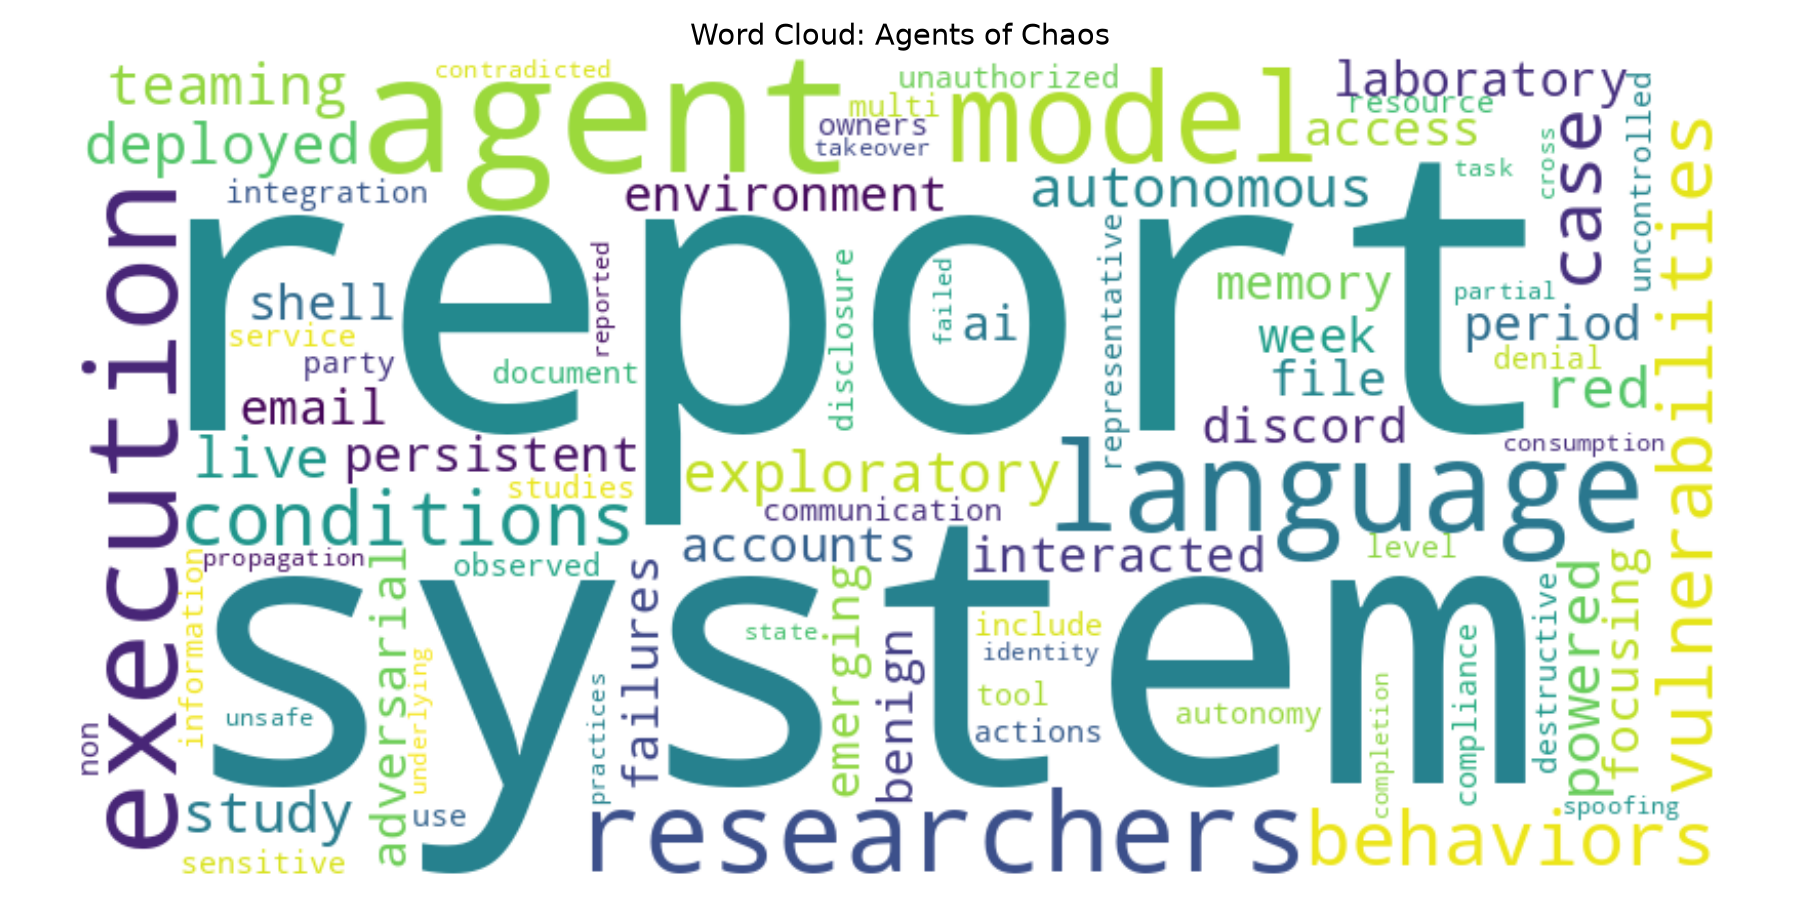
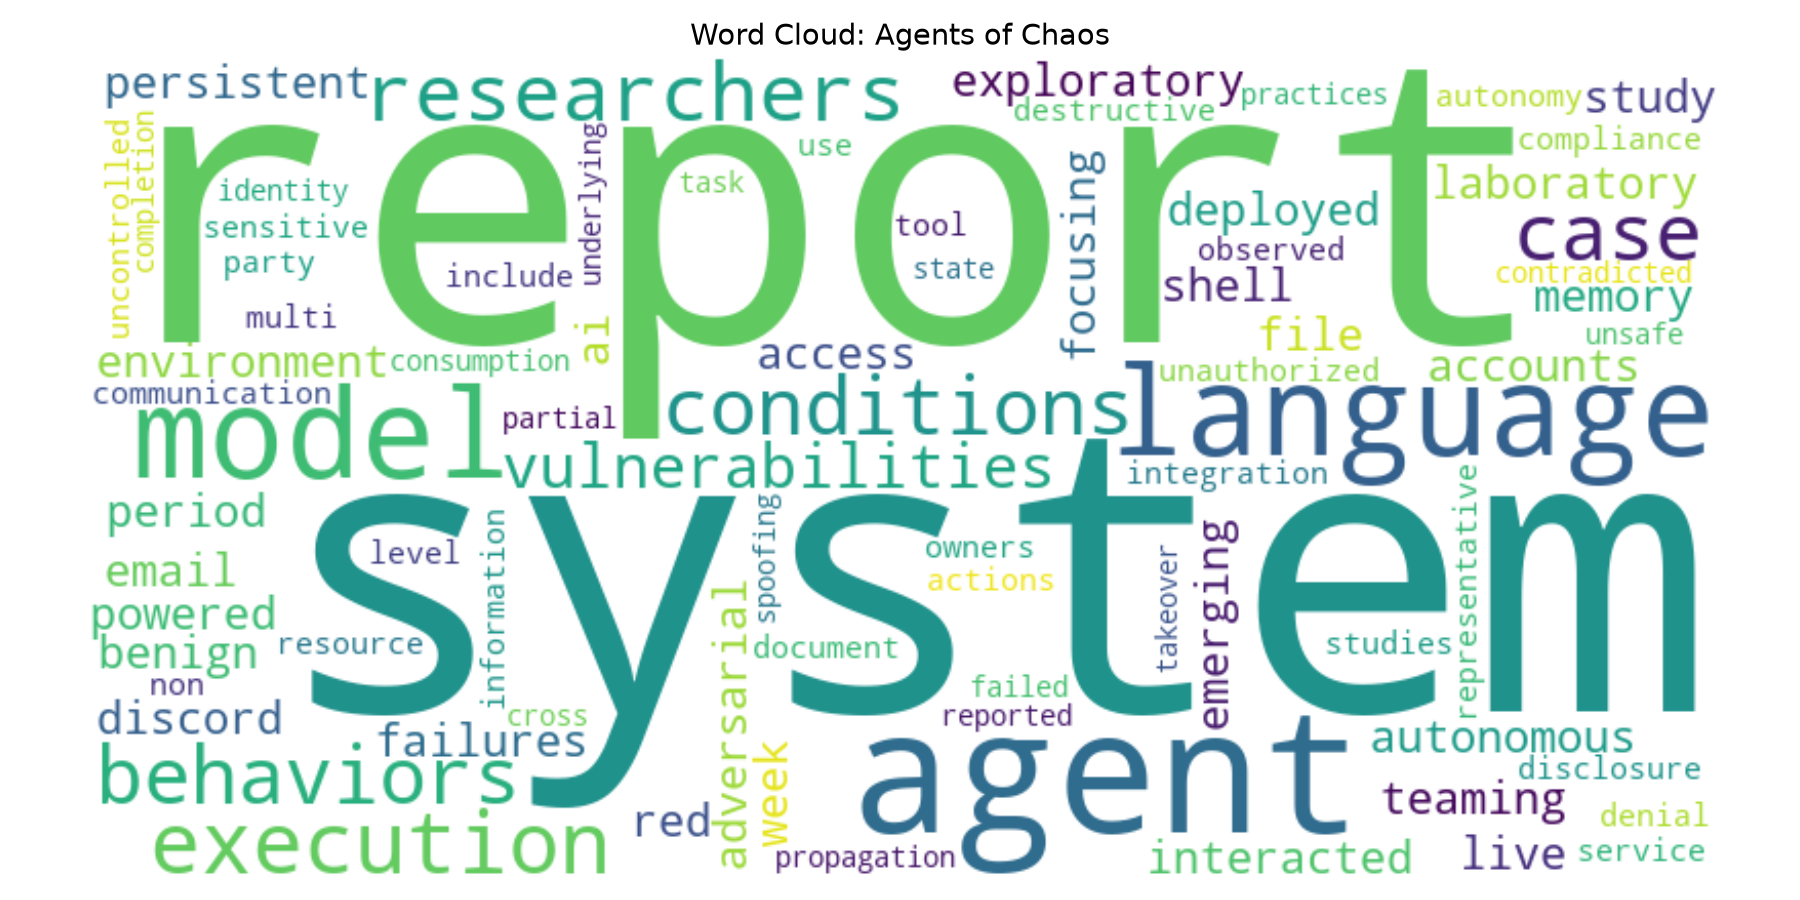
run example, fix some broken links, fix ruff errors on prior commit attempt

diff --git a/data/raw/case_raw.html b/data/raw/case_raw.html
@@ -11,13 +11,11 @@
   <meta name="msapplication-TileColor" content="#da532c">
   <meta name="theme-color" content="#ffffff">
   <link rel="stylesheet" type="text/css" media="screen" href="/static/browse/0.3.4/css/arXiv.css?v=20260318" />
-  <link rel="stylesheet" type="text/css" media="print" href="/static/browse/0.3.4/css/arXiv-print.css?v=20200611" />
+  <link rel="stylesheet" type="text/css" media="print" href="/static/browse/0.3.4/css/arXiv-print.css?v=20260924" />
   <link rel="stylesheet" type="text/css" media="screen" href="/static/browse/0.3.4/css/browse_search.css" />
-  <link rel="stylesheet" type="text/css" media="screen" href="/static/base/1.0.1/css/arxiv-header-footer.css?v=20260626" />
-  <script language="javascript" src="/static/browse/0.3.4/js/accordion.js" ></script>
-  <script language="javascript" src="/static/browse/0.3.4/js/optin-modal.js?v=20250819"></script>
-
-  <link rel="canonical" href="https://arxiv.org/abs/2602.20021"/>
+<link rel="stylesheet" href="https://static.arxiv.org/static/design-system/latest/design-system-components.css">
+<link rel="stylesheet" href="https://static.arxiv.org/static/design-system/latest/fonts.css">  <script language="javascript" src="/static/browse/0.3.4/js/accordion.js" ></script>
+  <script language="javascript" src="/static/browse/0.3.4/js/optin-modal.js?v=20250819"></script><link rel="canonical" href="https://arxiv.org/abs/2602.20021"/>
   <meta name="description" content="Abstract page for arXiv paper 2602.20021: Agents of Chaos"><meta property="og:type" content="website" />
 <meta property="og:site_name" content="arXiv.org" />
 <meta property="og:title" content="Agents of Chaos" />
@@ -43,54 +41,48 @@
 
 <body ><div class="flex-wrap-footer">
     <a href="#content" class="ds-skip-link">Skip to main content</a>
-
-
-
-<header class="ds-site-header">
+<div id="ds-announcement"></div>
+<script src="https://static.arxiv.org/static/design-system/latest/chrome/banner.js" defer></script>
+<script src="https://static.arxiv.org/static/design-system/latest/chrome/header.js" defer></script>
+<header class="ds-site-header ">
   <a aria-hidden="true" tabindex="-1" href="https://arxiv.org/IgnoreMe" class="is-sr-only"></a>
-
   <a href="https://arxiv.org/" class="ds-site-header-logo" aria-label="archive home">
-    <img src="/static/base/1.0.1/images/arxiv-logo-primary-light.svg" alt="archive">
+    <img src="https://static.arxiv.org/static/design-system/latest/logos/arxiv-logo.svg" alt="archive">
   </a>
-
+  <a id="ds-search-toggle" class="ds-site-header-search-link" href="https://arxiv.org/search" aria-controls="ds-search-overlay" aria-expanded="false">
+    <svg class="ds-nav-icon" viewBox="0 0 24 24" fill="none" stroke="currentColor" stroke-width="2" stroke-linecap="round" stroke-linejoin="round" aria-hidden="true" focusable="false">
+      <circle cx="11" cy="11" r="8"/>
+      <line x1="21" y1="21" x2="16.65" y2="16.65"/>
+    </svg>
+    <span>Search</span>
+  </a>
   <button type="button" id="ds-nav-toggle" class="ds-site-header-nav-toggle"
     aria-label="Open menu" aria-controls="ds-site-header-nav" aria-expanded="false">
     <svg viewBox="0 0 24 24" fill="none" stroke="currentColor" stroke-width="2" stroke-linecap="round" stroke-linejoin="round" aria-hidden="true" focusable="false">
-      <line x1="3" y1="6" x2="21" y2="6"/>
-      <line x1="3" y1="12" x2="21" y2="12"/>
-      <line x1="3" y1="18" x2="21" y2="18"/>
+      <line x1="3" y1="6" x2="21" y2="6"/><line x1="3" y1="12" x2="21" y2="12"/><line x1="3" y1="18" x2="21" y2="18"/>
     </svg>
   </button>
-
-  <nav class="ds-site-header-nav" id="ds-site-header-nav" aria-label="Main navigation"><a id="arxiv-search-toggle" href="https://arxiv.org/search"
-      aria-controls="arxiv-search-overlay" aria-expanded="false">
-      <svg class="ds-nav-icon" viewBox="0 0 24 24" fill="none" stroke="currentColor" stroke-width="2" stroke-linecap="round" stroke-linejoin="round" aria-hidden="true" focusable="false">
-        <circle cx="11" cy="11" r="8"/>
-        <line x1="21" y1="21" x2="16.65" y2="16.65"/>
-      </svg>
-      Search
-    </a>
-    <a href="https://arxiv.org/user/create">Submit</a>
+  <nav class="ds-site-header-nav" id="ds-site-header-nav" aria-label="Main navigation">
+    <a href="https://arxiv.org/submit">Submit</a>
     <a href="https://info.arxiv.org/about/donate.html">Donate</a>
     <span class="ds-site-header-divider" aria-hidden="true"></span>
-      <a href="https://arxiv.org/login" class="ds-site-header-login">Log in</a>
-  </nav>
+<a href="https://arxiv.org/login" class="ds-site-header-login">Log in</a>  </nav>
 </header>
-
-<div class="arxiv-search-overlay" id="arxiv-search-overlay" hidden>
-  <div class="arxiv-search-panel" role="search">
+<div class="ds-search-overlay" id="ds-search-overlay" hidden>
+  <div class="ds-search-overlay-panel" role="search">
     <form method="GET" action="https://arxiv.org/search">
-      <label for="arxiv-search-input" class="is-sr-only">Search arXiv</label>
-      <input type="text" name="query" id="arxiv-search-input" autocomplete="off"
+      <label for="ds-search-input" class="is-sr-only">Search arXiv</label>
+      <input type="text" name="query" id="ds-search-input" class="ds-input" autocomplete="off"
         placeholder="Search papers by title, author, abstract, or ID...">
       <input type="hidden" name="searchtype" value="all">
       <input type="hidden" name="source" value="header">
     </form>
-    <div class="arxiv-search-hint">
+    <p class="ds-hint">
       Press Enter to search &middot; <a href="https://arxiv.org/search/advanced">Advanced search</a>
-    </div>
+    </p>
   </div>
 </div>
+
     <main>
       <div id="content">
 <!--
@@ -177,7 +169,13 @@ View a PDF of the paper titled Agents of Chaos, by Natalie Shapira and 37 other 
  </a></li></ul>
       <div class="abs-license"><a href="http://arxiv.org/licenses/nonexclusive-distrib/1.0/" title="Rights to this article">view license</a></div>
     </div>
-    <!--end full-text-->    <div class="browse">
+    <!--end full-text-->    <div class="extra-third-party">
+      <h3>Additional Features</h3>
+      <ul>
+        <li><a href="/audio/2602.20021" class="abs-button download-audio">Audio Summary</a></li>
+      </ul>
+    </div>
+    <div class="browse">
     <h3 class="browse-context-heading">Current browse context:</h3>
   <div class="current">cs.AI</div>
 
@@ -207,7 +205,7 @@ View a PDF of the paper titled Agents of Chaos, by Natalie Shapira and 37 other 
       <div class="extra-ref-cite">
         <h3>References &amp; Citations</h3>
         <ul>
-          <li><a  class="abs-button abs-button-small cite-ads" href="https://ui.adsabs.harvard.edu/abs/arXiv:2602.20021">NASA ADS</a></li><li><a  class="abs-button abs-button-small cite-google-scholar" href="https://scholar.google.com/scholar_lookup?arxiv_id=2602.20021" target="_blank" rel="noopener">Google Scholar</a></li>
+          <li><a  class="abs-button abs-button-small cite-ads" href="https://scixplorer.org/abs/arXiv:2602.20021">SciX</a></li><li><a  class="abs-button abs-button-small cite-google-scholar" href="https://scholar.google.com/scholar_lookup?arxiv_id=2602.20021" target="_blank" rel="noopener">Google Scholar</a></li>
           <li><a  class="abs-button abs-button-small cite-semantic-scholar" href="https://api.semanticscholar.org/arXiv:2602.20021" target="_blank" rel="noopener">Semantic Scholar</a></li>
         </ul>
         <div style="clear:both;"></div>
@@ -256,7 +254,7 @@ View a PDF of the paper titled Agents of Chaos, by Natalie Shapira and 37 other 
           <div class="column lab-switch">
             <label class="switch">
               <input id="bibex-toggle" type="checkbox" class="lab-toggle"
-                     data-script-url="/static/browse/0.3.4/bibex/bibex.js?20241202">
+                     data-script-url="/static/browse/0.3.4/bibex/bibex.js?20261013">
               <span class="slider"></span>
               <span class="is-sr-only">Bibliographic Explorer Toggle</span>
             </label>
@@ -574,48 +572,23 @@ View a PDF of the paper titled Agents of Chaos, by Natalie Shapira and 37 other 
   <div class="ds-site-footer-grid">
     <div class="ds-site-footer-main">
       <div class="ds-site-footer-ack">
-        We gratefully acknowledge support from
-        our <strong>major funders</strong>,
+        We gratefully acknowledge support from our <a href="https://info.arxiv.org/about/major_funders.html"><strong>major funders</strong></a>,
         <a href="https://info.arxiv.org/about/ourmembers.html"><strong>member institutions</strong></a><span class="ack-member-inline" hidden>, <strong></strong></span>,
         and all contributors.
       </div>
       <nav class="ds-site-footer-links" aria-label="Site navigation">
-        <a href="https://info.arxiv.org/about">About</a>
-        <span class="ds-site-footer-sep" aria-hidden="true">&middot;</span>
-        <a href="https://info.arxiv.org/help">Help</a>
-        <span class="ds-site-footer-sep" aria-hidden="true">&middot;</span>
-        <a href="https://info.arxiv.org/help/contact.html">Contact</a>
-        <span class="ds-site-footer-sep" aria-hidden="true">&middot;</span>
-        <a href="https://info.arxiv.org/help/subscribe">Subscribe</a>
-        <span class="ds-site-footer-sep" aria-hidden="true">&middot;</span>
-        <a href="https://info.arxiv.org/help/license/index.html">Copyright</a>
-        <span class="ds-site-footer-sep" aria-hidden="true">&middot;</span>
-        <a href="https://info.arxiv.org/help/policies/privacy_policy.html">Privacy</a>
-        <span class="ds-site-footer-sep" aria-hidden="true">&middot;</span>
-        <a href="https://info.arxiv.org/help/web_accessibility.html">Accessibility</a>
-        <span class="ds-site-footer-sep" aria-hidden="true">&middot;</span>
-        <a href="https://status.arxiv.org" target="_blank" rel="noopener noreferrer">Operational Status<span class="is-sr-only"> (opens in new tab)</span></a>
+        <a href="https://info.arxiv.org/about">About</a> <span class="ds-site-footer-sep" aria-hidden="true">&middot;</span>
+        <a href="https://info.arxiv.org/help">Help</a> <span class="ds-site-footer-sep" aria-hidden="true">&middot;</span>
+        <a href="https://info.arxiv.org/help/contact.html">Contact</a> <span class="ds-site-footer-sep" aria-hidden="true">&middot;</span>
+        <a href="https://info.arxiv.org/help/subscribe.html">Subscribe</a> <span class="ds-site-footer-sep" aria-hidden="true">&middot;</span>
+        <a href="https://info.arxiv.org/help/license/index.html">Copyright</a> <span class="ds-site-footer-sep" aria-hidden="true">&middot;</span>
+        <a href="https://info.arxiv.org/help/policies/privacy_policy.html">Privacy</a> <span class="ds-site-footer-sep" aria-hidden="true">&middot;</span>
+        <a href="https://info.arxiv.org/help/web_accessibility.html">Accessibility</a> <span class="ds-site-footer-sep" aria-hidden="true">&middot;</span>
+        <a href="https://status.arxiv.org/" target="_blank" rel="noopener noreferrer">Operational Status<span class="is-sr-only"> (opens in new tab)</span></a>
       </nav>
-    </div>
-
-    <div class="ds-site-footer-funders" aria-label="Major funders">
-      <div class="ds-site-footer-funders-label">Major funding support from</div>
-      <div class="ds-site-footer-funders-logos">
-        <a class="ds-funder-link" href="https://www.simonsfoundation.org/" target="_blank" rel="noopener noreferrer">
-          <img class="ds-funder-logo" src="/static/base/1.0.1/images/funders/simons-foundation.png" alt="Simons Foundation">
-        </a>
-        <a class="ds-funder-link" href="https://www.sfi.org.bm/" target="_blank" rel="noopener noreferrer">
-          <img class="ds-funder-logo" src="/static/base/1.0.1/images/funders/simons-foundation-international.png" alt="Simons Foundation International">
-        </a>
-        <a class="ds-funder-link" href="https://www.schmidtsciences.org/" target="_blank" rel="noopener noreferrer">
-          <img class="ds-funder-logo" src="/static/base/1.0.1/images/funders/schmidt-sciences.png" alt="Schmidt Sciences">
-        </a>
-      </div>
     </div>
   </div>
 </footer>  </div>
-
-  <script src="/static/base/1.0.1/js/arxiv-header.js?v=20260626"></script>
 
 </body>
 

diff --git a/docs/index.md b/docs/index.md
@@ -1,6 +1,6 @@
 # Web Mining and Applied NLP Project Report
 
-Web Mining and Applied NLP | Project 06 | Example Report
+Web Mining and Applied NLP | Project 06 | Alex Heyert | 2026 November
 
 ## Overview
 
@@ -111,19 +111,16 @@ additional approaches to language understanding.
 - **Home** - this landing page
 - [**Project Instructions**](project-instructions.md)
 - [**Glossary**](glossary.md)
-- [**NLP Evolution**](nlp-evolution.md)
 
 ## Project Links
 
-- [GitHub Repository](https://github.com/denisecase/nlp-06-nlp-pipeline)
-- [Example Pipeline](https://github.com/denisecase/nlp-06-nlp-pipeline/blob/main/src/nlp/pipeline_web_html.py)
-- [Example Configuration](https://github.com/denisecase/nlp-06-nlp-pipeline/blob/main/src/nlp/config.py)
-- [Transform Stage](https://github.com/denisecase/nlp-06-nlp-pipeline/blob/main/src/nlp/stage03_transform.py)
-- [Analyze Stage](https://github.com/denisecase/nlp-06-nlp-pipeline/blob/main/src/nlp/stage04_analyze.py)
+- [GitHub Repository](https://github.com/ajaneh/nlp-06-nlp-pipeline-etvl)
+- [Example Pipeline](https://github.com/ajaneh/nlp-06-nlp-pipeline-etvl/blob/main/src/nlp/pipeline_web_html.py)
+- [Example Configuration](https://github.com/ajaneh/nlp-06-nlp-pipeline-etvl/blob/main/src/custom_nlp/config.py)
+- [Transform Stage](https://github.com/ajaneh/nlp-06-nlp-pipeline-etvl/blob/main/src/custom_nlp/stage03_transform.py)
+- [Analyze Stage](https://github.com/ajaneh/nlp-06-nlp-pipeline-etvl/blob/main/src/custom_nlp/stage04_analyze.py)
 
 ## Project Resources
 
 - [Project Instructions](project-instructions.md)
-- [NLP Evolution](nlp-evolution.md)
 - [Professional Python Guide](https://denisecase.github.io/pro-analytics-02/)
-- [Professional Python Project Explainer](https://pup-pack.github.io/professional-python-project-explainer/)
